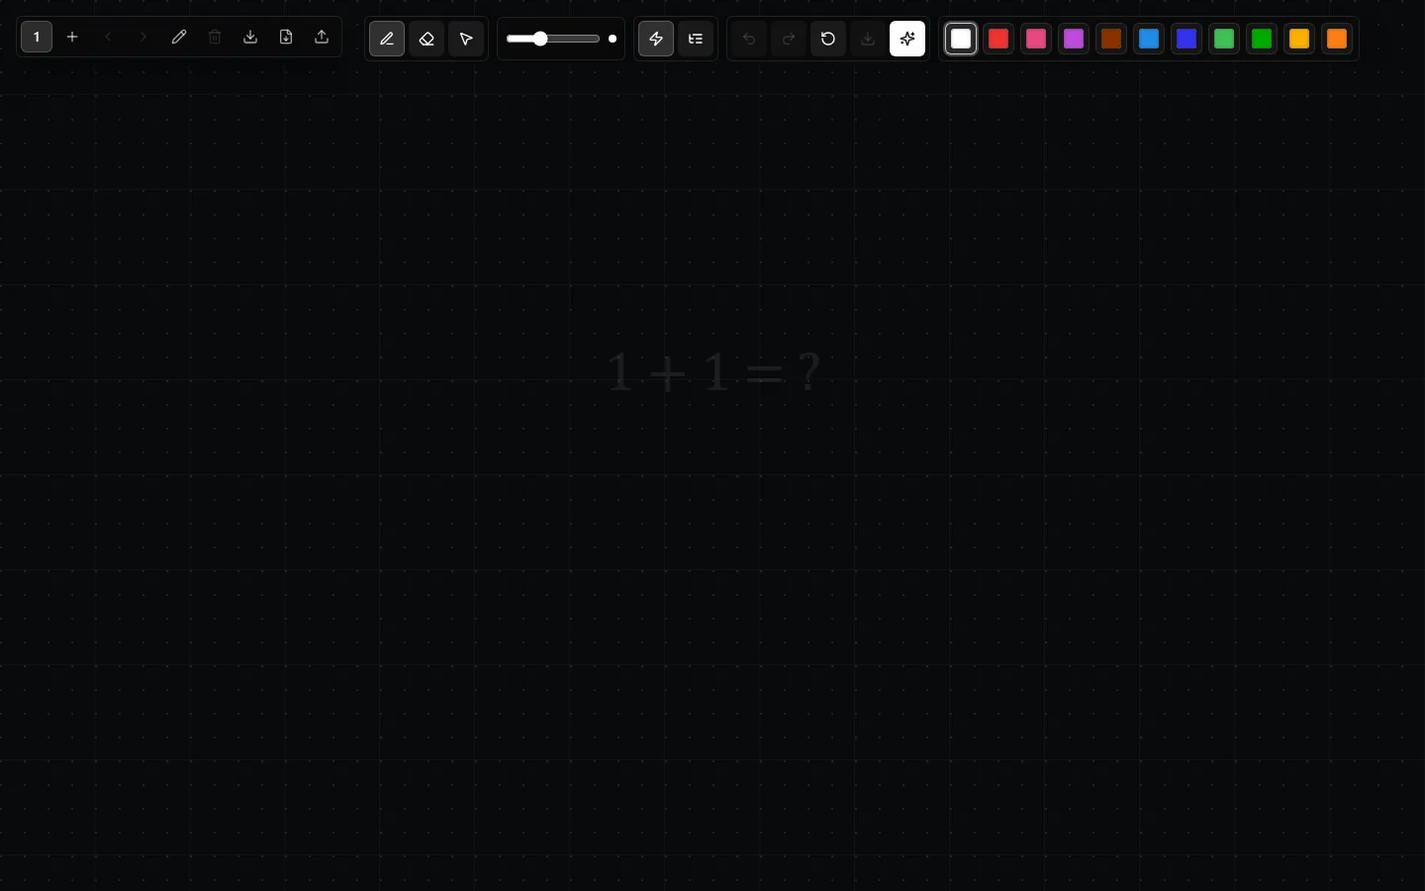
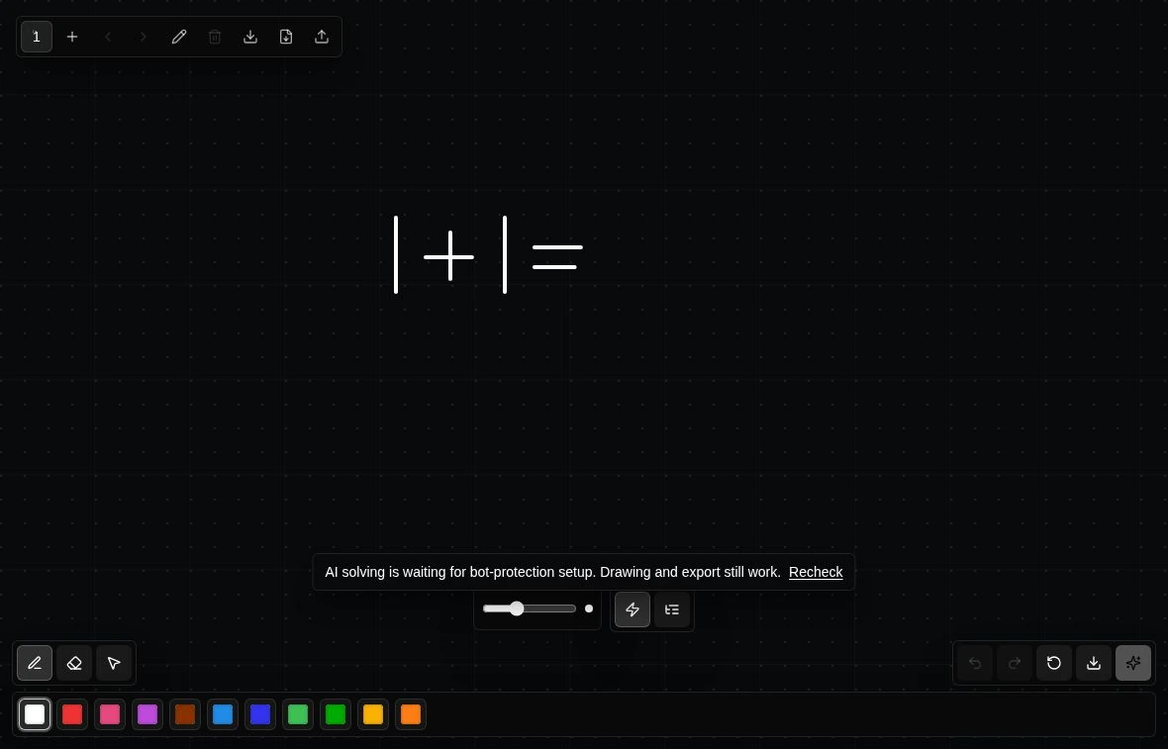
content: refresh Furigana, Tetris, and Math-Note project details

diff --git a/src/data/projects.ts b/src/data/projects.ts
@@ -236,49 +236,48 @@ export const projectCategories: ProjectCategory[] = [
                 slug: "furigana-for-spotify",
                 title: "Furigana for Spotify",
                 description: {
-                    en: "Local-first Spicetify extension that adds hiragana, katakana, or romaji readings to Japanese Spotify lyrics.",
-                    zh: "本地优先的 Spicetify 扩展，为 Spotify 日语歌词添加平假名、片假名或罗马字注音。",
-                    ja: "Spotify の日本語歌詞にひらがな・カタカナ・ローマ字の読みを付ける、ローカル優先の Spicetify 拡張。"
+                    en: "Japanese lyric readings inside Spotify Desktop, with local conversion and an optional two-line desktop overlay on Windows and macOS. Requires Spicetify.",
+                    zh: "为 Spotify 桌面版日语歌词添加本地生成的注音，并在 Windows 与 macOS 上提供可选的双行桌面歌词悬浮窗。需要先安装 Spicetify。",
+                    ja: "Spotify Desktop の日本語歌詞にローカル生成の読みを表示。Windows と macOS 向けに、任意で使える2行のデスクトップ歌詞表示も備えています。Spicetify が必要です。"
                 },
                 details: {
-                    en: "Furigana for Spotify augments Japanese lyrics inside Spotify Desktop and also provides a transparent two-line desktop overlay on Windows and macOS. Readings are generated locally by default, Spotify credentials are not required, and optional online lookup can be enabled for higher-confidence readings. The public repository includes installation, update, diagnostics, and packaging workflows. This independent project is not affiliated with or endorsed by Spotify AB.",
-                    zh: "Furigana for Spotify 会在 Spotify 桌面版内部为日语歌词添加注音，并在 Windows 与 macOS 上提供透明的双行桌面歌词悬浮窗。默认情况下读音在本地生成，无需 Spotify 凭据；也可以选择启用在线查询以获得更高置信度的读音。公开仓库包含安装、更新、诊断与打包流程。本项目为独立开发，与 Spotify AB 无隶属或背书关系。",
-                    ja: "Furigana for Spotify は Spotify Desktop 内の日本語歌詞に読みを付け、Windows と macOS では透明な2行のデスクトップオーバーレイも提供します。読みは既定でローカル生成され、Spotify の認証情報は不要です。必要に応じて、より確度の高い読みを得るオンライン検索も有効化できます。公開リポジトリにはインストール、更新、診断、パッケージングのワークフローを収録しています。本プロジェクトは独立開発であり、Spotify AB との提携・承認関係はありません。"
+                    en: "Furigana for Spotify adds hiragana, katakana, or romaji to Japanese lyrics without leaving Spotify Desktop. Its TypeScript Spicetify extension uses Kuroshiro and Kuromoji for local readings, with optional online lookup and a local fallback. Desktop companions show the current and next lines using PowerShell/WPF on Windows and Swift/AppKit on macOS; the Windows launcher is written in C#. esbuild bundles the extension and Vitest checks its logic. The v0.6.3 release includes installation, update, and diagnostic tools. Spotify Desktop and Spicetify must already be installed; the extension does not require Spotify credentials. This independent project is not affiliated with or endorsed by Spotify AB.",
+                    zh: "Furigana for Spotify 让用户直接在 Spotify 桌面版中阅读带平假名、片假名或罗马字注音的日语歌词。TypeScript 编写的 Spicetify 扩展使用 Kuroshiro 与 Kuromoji 在本地生成读音，也支持可选的在线查询和本地回退。桌面伴随程序显示当前与下一行歌词：Windows 使用 PowerShell/WPF，macOS 使用 Swift/AppKit，Windows 启动器则以 C# 编写。开发工具采用 esbuild 打包、Vitest 测试。v0.6.3 包含安装、更新与诊断工具；使用前需安装 Spotify 桌面版和 Spicetify，扩展本身不需要 Spotify 凭据。本项目为独立开发，与 Spotify AB 无隶属或背书关系。",
+                    ja: "Furigana for Spotify は、Spotify Desktop 内の日本語歌詞にひらがな・カタカナ・ローマ字の読みを表示します。TypeScript 製の Spicetify 拡張で、Kuroshiro と Kuromoji によるローカル変換を基本とし、任意のオンライン検索とローカルへのフォールバックに対応しています。現在と次の歌詞を表示するデスクトップ機能は、Windows では PowerShell/WPF、macOS では Swift/AppKit で実装し、Windows ランチャーには C# を使用しています。開発には esbuild と Vitest を採用。v0.6.3 にはインストール・更新・診断ツールも含まれます。Spotify Desktop と Spicetify の事前インストールが必要ですが、拡張に Spotify の認証情報を渡す必要はありません。Spotify AB との提携・承認関係はありません。"
                 },
                 status: "live",
                 github: "https://github.com/huiishan99/extension-Furigana-for-Spotify",
-                image: "/images/projects/spotify-furigana-social-preview.webp",
                 detailImages: [
                     {
-                        src: "/images/projects/spotify-furigana-social-preview.webp",
+                        src: "/images/projects/spotify-furigana-lyrics.webp",
                         alt: {
-                            en: "Furigana for Spotify project preview with annotated Japanese lyrics",
-                            zh: "展示日语歌词注音效果的 Furigana for Spotify 项目预览图",
-                            ja: "日本語歌詞への読み表示を示す Furigana for Spotify のプロジェクトプレビュー"
+                            en: "Spotify Desktop on Windows showing Japanese lyrics with furigana in a real v0.5.1 capture",
+                            zh: "v0.5.1 的真实 Windows Spotify 桌面版截图，展示日语歌词上方的注音",
+                            ja: "Windows 版 Spotify Desktop で日本語歌詞にふりがなを表示した v0.5.1 の実画面"
                         },
                         caption: {
-                            en: "Project preview · Japanese lyrics with configurable readings",
-                            zh: "项目预览 · 为日语歌词显示可配置的读音",
-                            ja: "プロジェクトプレビュー · 日本語歌詞に設定可能な読みを表示"
+                            en: "Real Windows capture · v0.5.1 · Spotify 1.2.97.270 / Spicetify 2.44.0. Spotify UI, artwork, and lyrics belong to their respective rights holders.",
+                            zh: "Windows 实机截图 · v0.5.1 · Spotify 1.2.97.270 / Spicetify 2.44.0。Spotify 界面、封面与歌词的权利归各自权利人所有。",
+                            ja: "Windows 実機キャプチャ · v0.5.1 · Spotify 1.2.97.270 / Spicetify 2.44.0。UI、アートワーク、歌詞の権利は各権利者に帰属します。"
                         },
                         fit: "contain"
                     },
                     {
-                        src: "/images/projects/spotify-furigana-lyrics.webp",
+                        src: "/images/projects/spotify-furigana-social-preview.webp",
                         alt: {
-                            en: "Spotify Desktop lyrics view showing furigana above Japanese lyric lines",
-                            zh: "Spotify 桌面版歌词界面，在日语歌词上方显示注音",
-                            ja: "日本語歌詞の上にふりがなを表示した Spotify Desktop の歌詞画面"
+                            en: "Furigana for Spotify promotional graphic incorporating the real v0.5.1 lyrics screenshot",
+                            zh: "使用真实 v0.5.1 歌词截图制作的 Furigana for Spotify 项目宣传图",
+                            ja: "v0.5.1 の実際の歌詞画面を使用した Furigana for Spotify の紹介画像"
                         },
                         caption: {
-                            en: "Extension in use · Spotify UI, music artwork, and lyrics remain the property of their respective rights holders",
-                            zh: "扩展运行画面 · Spotify 界面、音乐封面与歌词的权利归各自权利人所有",
-                            ja: "拡張機能の実行画面 · Spotify の UI、楽曲アートワーク、歌詞の権利は各権利者に帰属します"
+                            en: "Repository promotional composite · Uses the v0.5.1 capture; not a new runtime screenshot",
+                            zh: "仓库宣传合成图 · 使用 v0.5.1 实机素材，并非新版运行截图",
+                            ja: "リポジトリの紹介用合成画像 · v0.5.1 の実画面を使用。新バージョンの実行画面ではありません"
                         },
                         fit: "contain"
                     }
                 ],
-                tags: ["TypeScript", "Spicetify", "Spotify Desktop", "Windows", "macOS"]
+                tags: ["TypeScript", "Spicetify", "Kuroshiro / Kuromoji", "PowerShell / WPF", "Swift / AppKit", "C#"]
             },
             {
                 slug: "notion-next-chinese-blog",
@@ -296,30 +295,35 @@ export const projectCategories: ProjectCategory[] = [
                 slug: "math-note",
                 title: "Math-Note",
                 description: {
-                    en: "AI math canvas app with a React/Vite frontend and FastAPI backend that sends drawn equations to Gemini.",
-                    zh: "AI 数学画布应用，React/Vite 前端与 FastAPI 后端会将手写公式发送给 Gemini 进行处理。",
-                    ja: "React/Vite フロントエンドと FastAPI バックエンドを持つ AI 数学キャンバスアプリ。描いた数式を Gemini に送信します。"
+                    en: "Browser math notebook with a drawing canvas, locally saved pages, and export. The public demo supports drawing; AI solving is currently disabled.",
+                    zh: "浏览器数学笔记本，支持手写画布、页面本地保存与导出。公开演示可体验绘图，AI 求解目前尚未开放。",
+                    ja: "手書きキャンバス、ページのローカル保存、書き出しを備えたブラウザー数学ノート。公開デモでは描画を試せますが、AI 求解は現在無効です。"
                 },
+                details: {
+                    en: "Math-Note combines a React/TypeScript canvas with a Python/FastAPI API. It supports multiple notebook pages, pen and eraser tools, undo/redo, local browser storage, and JSON/PDF export. The interface uses Tailwind CSS and Mantine, Vite builds the frontend, and MathJax renders returned equations. The backend integrates the Google Gen AI SDK for handwritten-image solving, with server-side credentials, image validation, request limits, and Cloudflare Turnstile verification. Frontend and API are deployed together on Vercel. As of 8 October 2026, drawing is available but public AI requests remain disabled pending Turnstile configuration; the preview shows no generated answer.",
+                    zh: "Math-Note 将 React/TypeScript 手写画布与 Python/FastAPI 接口结合，支持多页笔记、画笔与橡皮、撤销/重做、浏览器本地存储及 JSON/PDF 导出。界面使用 Tailwind CSS 与 Mantine，前端由 Vite 构建，返回的公式由 MathJax 渲染。后端通过 Google Gen AI SDK 接入手写图像求解，并实现服务端凭据管理、图像验证、请求限制与 Cloudflare Turnstile 人机验证。前端和 API 部署在同一个 Vercel 项目中。截至 2026 年 10 月 8 日，绘图功能可用，公开 AI 请求仍因 Turnstile 配置未完成而关闭；预览图不包含生成的答案。",
+                    ja: "Math-Note は React/TypeScript の手書きキャンバスと Python/FastAPI の API を組み合わせた数学ノートです。複数ページ、ペンと消しゴム、元に戻す・やり直す、ブラウザー内保存、JSON/PDF 書き出しに対応しています。UI は Tailwind CSS と Mantine、フロントエンドのビルドは Vite、返された数式の表示は MathJax を使用。バックエンドは Google Gen AI SDK による手書き画像の求解処理を備え、認証情報のサーバー管理、画像検証、リクエスト制限、Cloudflare Turnstile 検証を実装しています。フロントエンドと API は同じ Vercel プロジェクトにデプロイしています。2026年10月8日時点では描画を利用できますが、Turnstile の設定が完了するまで公開 AI リクエストは無効です。プレビューに生成された回答は含まれていません。"
+                },
+                status: "prototype",
                 github: "https://github.com/huiishan99/web-math-note",
                 website: "https://math-notes-clone.vercel.app/",
-                image: "/images/projects/math-note-live.webp",
                 detailImages: [
                     {
                         src: "/images/projects/math-note-live.webp",
                         alt: {
-                            en: "Running Math-Note drawing canvas with equation controls and a handwritten expression",
-                            zh: "正在运行的 Math-Note 手写画布，显示公式控制栏与手写表达式",
-                            ja: "数式ツールと手書き式を表示した、実行中の Math-Note キャンバス"
+                            en: "Math-Note drawing canvas with handwritten input and a banner explaining that AI solving is waiting for bot-protection setup",
+                            zh: "Math-Note 手写画布与输入内容，提示 AI 求解正在等待人机验证配置",
+                            ja: "手書き入力と、AI 求解がボット対策の設定待ちであることを示す Math-Note キャンバス"
                         },
                         caption: {
-                            en: "Live deployment · Interactive math canvas",
-                            zh: "在线部署 · 交互式数学画布",
-                            ja: "公開デプロイ · インタラクティブ数式キャンバス"
+                            en: "Public drawing demo · Captured 8 October 2026; AI solving disabled pending Turnstile setup",
+                            zh: "公开绘图演示 · 截于 2026 年 10 月 8 日；AI 求解因 Turnstile 待配置而关闭",
+                            ja: "公開の描画デモ · 2026年10月8日撮影。Turnstile 設定待ちのため AI 求解は無効"
                         },
                         fit: "contain"
                     }
                 ],
-                tags: ["React", "Vite", "TypeScript", "FastAPI", "Gemini"]
+                tags: ["TypeScript", "Python", "React", "FastAPI", "Tailwind CSS", "Vite"]
             },
             {
                 slug: "yumemi-test",
@@ -598,12 +602,47 @@ export const projectCategories: ProjectCategory[] = [
                 slug: "tetris-clone",
                 title: "Tetris Clone",
                 description: {
-                    en: "Native Windows C++ Tetris clone with scoring, hold piece, ghost preview, levels, and best-score tracking.",
-                    zh: "原生 Windows C++ 俄罗斯方块克隆，包含计分、保留方块、幽灵预览、等级和最高分记录。",
-                    ja: "スコア、ホールド、ゴーストプレビュー、レベル、ベストスコア記録を備えたネイティブ Windows C++ のテトリスクローン。"
+                    en: "Native Windows falling-block game built with C++17 and Win32/GDI, with hold, ghost and next-piece previews, adjustable controls, and a local leaderboard.",
+                    zh: "使用 C++17 与 Win32/GDI 编写的原生 Windows 俄罗斯方块游戏，支持保留方块、落点与后续方块预览、操作参数调整和本地排行榜。",
+                    ja: "C++17 と Win32/GDI で制作した Windows ネイティブの落ち物パズル。ホールド、ゴースト、次のブロック表示、操作設定、ローカルランキングを備えています。"
                 },
-                github: "https://github.com/huiishan99/cpp-tetris-game",
-                tags: ["C++", "Win32", "Game Dev"]
+                details: {
+                    en: "This C++17 game uses the Win32 API for its native Windows window and GDI for drawing. The rules include wall kicks, lock delay, hold, a ghost piece, a three-piece preview, and combo and spin-clear scoring. A settings screen adjusts key repeat timing, controls, window size, and sound; a local top-five leaderboard saves names and scores. CMake builds the game and a portable rule-testing target, while GitHub Actions also exercises the Windows UI and packaged executable. Windows builds are distributed as time-limited CI artifacts that require a GitHub sign-in, rather than a standalone release. The game window is Windows-only; the core tests also run on Linux and macOS.",
+                    zh: "这款 C++17 游戏使用 Win32 API 创建原生 Windows 窗口，以 GDI 绘制界面。规则包含踢墙、锁定延迟、保留方块、落点预览、三块预告，以及连击与旋转消行计分。设置界面可调整按键重复时序、键位、窗口大小和声音，本地前五名排行榜记录玩家名称与分数。CMake 用于构建游戏和可跨平台运行的规则测试，GitHub Actions 还会检查 Windows 原生界面与打包后的程序。Windows 构建通过有保存期限的 CI 产物提供，下载需要登录 GitHub，目前没有独立 Release。游戏窗口仅支持 Windows，核心规则测试也可在 Linux 和 macOS 上运行。",
+                    ja: "C++17 で実装し、Win32 API でネイティブ Windows ウィンドウを作成、GDI で描画するゲームです。壁蹴り、固定までの猶予、ホールド、ゴースト、3個先までのプレビュー、コンボと回転消去の加点に対応。設定画面ではキーリピート、操作キー、ウィンドウサイズ、音を調整でき、ローカルの上位5件に名前とスコアを保存します。CMake でゲームと移植可能なルールテストをビルドし、GitHub Actions では Windows UI と配布用実行ファイルも検証します。Windows ビルドは保存期間付きの CI アーティファクトとして配布し、ダウンロードには GitHub ログインが必要です。独立した Release はまだありません。ゲーム画面は Windows 専用で、コアのテストは Linux と macOS でも実行できます。"
+                },
+                github: "https://github.com/huiishan99/game-cpp-tetris",
+                detailImages: [
+                    {
+                        src: "/images/projects/tetris-gameplay.webp",
+                        alt: {
+                            en: "Native Windows Tetris game showing the board, held piece, ghost, next three pieces, and score",
+                            zh: "Windows 原生俄罗斯方块游戏画面，显示棋盘、保留方块、落点预览、后三块预告与分数",
+                            ja: "盤面、ホールド、ゴースト、次の3個、スコアを表示した Windows ネイティブゲームの実画面"
+                        },
+                        caption: {
+                            en: "Packaged Windows x64 game · Unedited UI capture from the 8 October 2026 CI run",
+                            zh: "Windows x64 打包程序 · 2026 年 10 月 8 日 CI 运行中的原始界面截图",
+                            ja: "Windows x64 配布用ビルド · 2026年10月8日の CI 実行で取得した未加工の画面"
+                        },
+                        fit: "contain"
+                    },
+                    {
+                        src: "/images/projects/tetris-settings.webp",
+                        alt: {
+                            en: "Tetris settings for key repeat timing, line-clear effects, controls, window size, sound, and player name",
+                            zh: "俄罗斯方块设置界面，可调整按键重复时序、消行特效、键位、窗口、声音与玩家名称",
+                            ja: "キーリピート、消去エフェクト、操作、ウィンドウ、音、プレイヤー名を調整する設定画面"
+                        },
+                        caption: {
+                            en: "In-game settings · Native Windows UI captured in the same CI run",
+                            zh: "游戏内设置 · 同一次 CI 运行中截取的 Windows 原生界面",
+                            ja: "ゲーム内設定 · 同じ CI 実行で取得した Windows ネイティブ UI"
+                        },
+                        fit: "contain"
+                    }
+                ],
+                tags: ["C++17", "Win32 API", "GDI", "CMake"]
             },
             {
                 slug: "opengl-practice",

diff --git a/tests/e2e/site-smoke.spec.ts b/tests/e2e/site-smoke.spec.ts
@@ -415,7 +415,7 @@ test('project cards keep one lazy detail dialog while preserving the existing in
   const spotifyCard = page.locator('.project-card').filter({ hasText: 'Furigana for Spotify' });
   await expect(spotifyCard.locator('.project-image img')).toHaveAttribute(
     'src',
-    '/images/projects/spotify-furigana-social-preview.webp'
+    '/images/projects/spotify-furigana-lyrics.webp'
   );
   await spotifyCard.getByRole('link', { name: 'View Details' }).click();
   await expect(dialog).toBeVisible();
@@ -425,7 +425,7 @@ test('project cards keep one lazy detail dialog while preserving the existing in
   await expect(dialog.locator('[data-project-gallery-counter]')).toHaveText('2 / 2');
   await expect(dialog.locator('[data-project-gallery-slide]:not([hidden]) img')).toHaveAttribute(
     'src',
-    '/images/projects/spotify-furigana-lyrics.webp'
+    '/images/projects/spotify-furigana-social-preview.webp'
   );
   await dialog.getByRole('button', { name: 'Close project details' }).click();
 

diff --git a/docs/project-media-sources.md b/docs/project-media-sources.md
@@ -1,0 +1,58 @@
+# Selected project content and media sources
+
+Checked on 8 October 2026. This refresh changes only the existing Furigana for
+Spotify, Math-Note, and Tetris Clone entries. Category order, project slugs,
+components, and layout are unchanged.
+
+## Furigana for Spotify
+
+- Source: [v0.6.3 / `0c063cd`](https://github.com/huiishan99/extension-Furigana-for-Spotify/tree/0c063cd6eb9f355b0476e08946127bdf70d4ff5f)
+- Core: TypeScript, Spicetify, Kuroshiro/Kuromoji. Windows overlay:
+  PowerShell/WPF. macOS overlay: Swift/AppKit. Windows launcher: C#.
+  esbuild and Vitest are development tooling.
+- `spotify-furigana-lyrics.webp` is the existing conversion of the repository's
+  [real lyric screenshot](https://github.com/huiishan99/extension-Furigana-for-Spotify/blob/0c063cd6eb9f355b0476e08946127bdf70d4ff5f/assets/screenshots/lyrics-view.png).
+  Its [provenance](https://github.com/huiishan99/extension-Furigana-for-Spotify/blob/0c063cd6eb9f355b0476e08946127bdf70d4ff5f/assets/marketing/PROVENANCE.md)
+  identifies a v0.5.1 Windows 11 capture with Spotify 1.2.97.270 and Spicetify
+  2.44.0. It is not a new v0.6.3 runtime capture.
+- `spotify-furigana-social-preview.webp` is the existing repository promotional
+  composite using that same real capture. It is labeled as a composite in all
+  three languages, and follows the runtime screenshot in the gallery.
+- Spotify Desktop and Spicetify are prerequisites. The extension does not
+  request Spotify credentials. Spotify UI, music artwork, and lyrics retain
+  their respective rights holders.
+
+## Tetris Clone
+
+- Source: [`c9e4a79`](https://github.com/huiishan99/game-cpp-tetris/tree/c9e4a7911e1f01a1827048b7a301c70477180925)
+- Implementation: C++17 with Win32/GDI; CMake is build tooling. Portable core
+  tests are distinct from the Windows-only game window.
+- `tetris-gameplay.webp` and `tetris-settings.webp` are lossless format
+  conversions of the repository's 600 × 700 PNG files. No UI was generated,
+  composited, retouched, or cropped.
+- [Source screenshots and provenance](https://github.com/huiishan99/game-cpp-tetris/tree/c9e4a7911e1f01a1827048b7a301c70477180925/docs/screenshots)
+  identify real captures of the packaged Windows x64 game in
+  [CI run 37738403601](https://github.com/huiishan99/game-cpp-tetris/actions/runs/37738403601),
+  on 8 October 2026.
+- At this check, downloadable Windows builds are expiring GitHub Actions
+  artifacts requiring sign-in. No standalone GitHub Release is claimed.
+
+## Math-Note
+
+- Source: [`26573f0`](https://github.com/huiishan99/web-math-note/tree/26573f02e4829b3269afd57d512ebe5ab17a93ec)
+- Product: React/TypeScript canvas, Tailwind CSS and Mantine interface,
+  MathJax result rendering, Python/FastAPI API and Google Gen AI SDK.
+  Vite is build tooling; Vercel hosts the frontend and API.
+- `math-note-live.webp` replaces the older preview with a fresh screenshot of
+  the [public deployment](https://math-notes-clone.vercel.app/) captured on
+  8 October 2026 at approximately 07:47 UTC. It is a WebP conversion of the
+  1180 × 757 browser capture, with no crop or UI alteration.
+- The existing handwritten input was preserved. No AI request was submitted
+  and no generated answer was added. The visible banner states that AI
+  solving is waiting for bot-protection setup and drawing/export remain
+  available. The entry is explicitly marked as a prototype and records the
+  pending Turnstile configuration rather than claiming successful AI solving.
+
+All source and converted images were visually inspected before selection.
+The existing gallery `contain` behavior keeps the full screenshots visible
+on both project cards and detail pages without changing the components.
